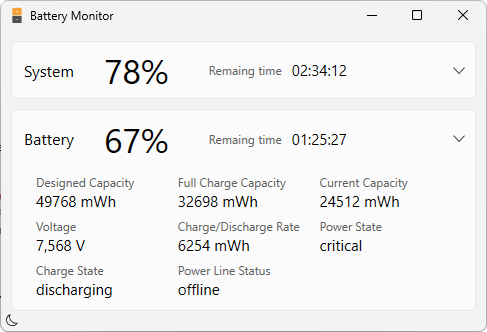
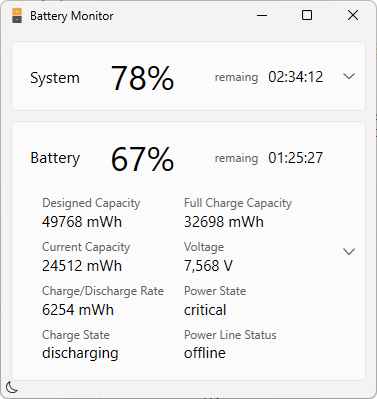
- modified Expander style - more space in layout

diff --git a/Styles.xaml b/Styles.xaml
@@ -250,11 +250,17 @@
                      TargetType="{x:Type ToggleButton}">
         <Border x:Name="Border"
                 Background="Transparent">
-            <Grid Margin="0,25,10,0"
-                  HorizontalAlignment="Right"
+            <Grid Margin="10"
+                  HorizontalAlignment="Stretch"
                   VerticalAlignment="Top">
+                <Grid.ColumnDefinitions>
+                    <ColumnDefinition />
+                    <ColumnDefinition Width="12" />
+                </Grid.ColumnDefinitions>
                 <Path x:Name="CollapsedArrow"
+                      Grid.Column="1"
                       Width="12"
+                      Margin="0,0,0,0"
                       HorizontalAlignment="Center"
                       VerticalAlignment="Center"
                       Data="M 0 0 L 8 8 L 16 0"
@@ -262,7 +268,9 @@
                       Stroke="{StaticResource Group.ExpanderButtonBrush}"
                       StrokeThickness="1" />
                 <Path x:Name="ExpandededArrow"
+                      Grid.Column="1"
                       Width="12"
+                      Margin="0,0,0,0"
                       HorizontalAlignment="Center"
                       VerticalAlignment="Center"
                       Data="M 0 8 L 8 0 L 16 8"
@@ -270,6 +278,7 @@
                       Stroke="{StaticResource Group.ExpanderButtonBrush}"
                       StrokeThickness="1"
                       Visibility="Collapsed" />
+                <ContentPresenter Grid.Column="0" />
             </Grid>
             <VisualStateManager.VisualStateGroups>
                 <VisualStateGroup x:Name="CommonStates">
@@ -308,8 +317,7 @@
                     <Grid>
                         <Grid.RowDefinitions>
                             <RowDefinition Height="Auto" />
-                            <RowDefinition x:Name="ContentRow"
-                                           Height="0" />
+                            <RowDefinition Height="Auto" />
                         </Grid.RowDefinitions>
                         <Border x:Name="Border"
                                 Grid.Row="0"
@@ -318,10 +326,8 @@
                                 BorderThickness="1"
                                 CornerRadius="5">
                             <Grid>
-                                <ContentPresenter Margin="4"
-                                                  ContentSource="Header"
-                                                  RecognizesAccessKey="True" />
-                                <ToggleButton FocusVisualStyle="{x:Null}"
+                                <ToggleButton Content="{TemplateBinding Header}"
+                                              FocusVisualStyle="{x:Null}"
                                               IsChecked="{Binding IsExpanded,
                                                                   Mode=TwoWay,
                                                                   RelativeSource={RelativeSource TemplatedParent}}"
@@ -329,36 +335,26 @@
                                               Template="{StaticResource ExpanderToggleButton}" />
                             </Grid>
                         </Border>
-                        <Border x:Name="Content"
+                        <Border x:Name="ExpandSite"
                                 Grid.Row="1"
                                 Background="{StaticResource Group.BackgroundBrush}"
                                 BorderBrush="{StaticResource Group.BorderBrush}"
                                 BorderThickness="1,0,1,1"
-                                CornerRadius="0,0,5,5">
+                                CornerRadius="0,0,5,5"
+                                Visibility="Collapsed">
                             <ContentPresenter Margin="4" />
                         </Border>
                         <VisualStateManager.VisualStateGroups>
                             <VisualStateGroup x:Name="CommonStates">
                                 <VisualState x:Name="Normal" />
                                 <VisualState x:Name="MouseOver" />
-                                <VisualState x:Name="Disabled">
-                                    <Storyboard>
-                                        <ColorAnimation Storyboard.TargetName="Border"
-                                                        Storyboard.TargetProperty="(Panel.Background).(GradientBrush.GradientStops)[1].(GradientStop.Color)"
-                                                        To="Gray"
-                                                        Duration="0" />
-                                        <ColorAnimation Storyboard.TargetName="Border"
-                                                        Storyboard.TargetProperty="(Border.BorderBrush).(GradientBrush.GradientStops)[1].(GradientStop.Color)"
-                                                        To="Gray"
-                                                        Duration="0" />
-                                    </Storyboard>
-                                </VisualState>
+                                <VisualState x:Name="Disabled" />
                             </VisualStateGroup>
                         </VisualStateManager.VisualStateGroups>
                     </Grid>
                     <ControlTemplate.Triggers>
                         <Trigger Property="IsExpanded" Value="True">
-                            <Setter TargetName="ContentRow" Property="Height" Value="{Binding DesiredHeight, ElementName=Content}" />
+                            <Setter TargetName="ExpandSite" Property="Visibility" Value="Visible" />
                             <Setter TargetName="Border" Property="CornerRadius" Value="5,5,0,0" />
                         </Trigger>
                     </ControlTemplate.Triggers>
@@ -593,7 +589,7 @@
                         <Grid.ColumnDefinitions>
                             <ColumnDefinition Width="Auto"
                                               SharedSizeGroup="ColumnGroupLabel" />
-                            <ColumnDefinition Width="10"/>
+                            <ColumnDefinition Width="10" />
                         </Grid.ColumnDefinitions>
                         <Grid.RowDefinitions>
                             <RowDefinition />
@@ -634,37 +630,23 @@
         <Setter Property="Template">
             <Setter.Value>
                 <ControlTemplate TargetType="{x:Type s:ValueControl}">
-                    <Grid Width="Auto"
-                          HorizontalAlignment="Left"
-                          VerticalAlignment="Top">
-                        <Grid.ColumnDefinitions>
-                            <ColumnDefinition Width="Auto" />
-                        </Grid.ColumnDefinitions>
-                        <Grid.RowDefinitions>
-                            <RowDefinition />
-                        </Grid.RowDefinitions>
-                        <StackPanel Margin="0,0,0,0"
-                                    Orientation="Horizontal">
-                            <Label x:Name="NoneEmptyValue"
-                                   Margin="0,0,0,0"
-                                   HorizontalAlignment="Left"
-                                   VerticalAlignment="Top"
-                                   Content="{TemplateBinding Value}"
-                                   FontSize="34" />
-                            <Label x:Name="Unit"
-                                   Grid.Row="0"
-                                   Grid.Column="1"
-                                   HorizontalAlignment="Left"
-                                   VerticalAlignment="Top"
-                                   Content="%"
-                                   FontSize="34" />
-                            <Label x:Name="Empty"
-                                   Margin="0,-2,0,0"
-                                   Content="--"
-                                   FontSize="22"
-                                   Visibility="Collapsed" />
-                        </StackPanel>
-                    </Grid>
+                    <StackPanel Orientation="Horizontal">
+                        <Label x:Name="NoneEmptyValue"
+                               HorizontalAlignment="Left"
+                               VerticalAlignment="Center"
+                               Content="{TemplateBinding Value}"
+                               FontSize="34" />
+                        <Label x:Name="Unit"
+                               HorizontalAlignment="Left"
+                               VerticalAlignment="Center"
+                               Content="%"
+                               FontSize="34" />
+                        <Label x:Name="Empty"
+                               Margin="0,-2,0,0"
+                               Content="--"
+                               FontSize="22"
+                               Visibility="Collapsed" />
+                    </StackPanel>
                     <ControlTemplate.Triggers>
                         <Trigger Property="Value" Value="">
                             <Setter TargetName="NoneEmptyValue" Property="Visibility" Value="{x:Static Visibility.Collapsed}" />
@@ -683,29 +665,18 @@
         <Setter Property="Template">
             <Setter.Value>
                 <ControlTemplate TargetType="{x:Type s:LabelValuePair}">
-                    <Grid Width="Auto"
-                          HorizontalAlignment="Left"
-                          VerticalAlignment="Top">
-                        <Grid.ColumnDefinitions>
-                            <ColumnDefinition Width="Auto" />
-                            <ColumnDefinition Width="Auto" />
-                        </Grid.ColumnDefinitions>
-                        <Grid.RowDefinitions>
-                            <RowDefinition />
-                        </Grid.RowDefinitions>
-                            <Label Grid.Column="0"
-                                   Content="{TemplateBinding Label}"
-                                   Style="{DynamicResource DescriptionStyle}" />
-                            <Label x:Name="NoneEmptyValue"
-                                   Grid.Column="1"
-                                   Content="{TemplateBinding Value}"
-                                   Style="{DynamicResource ValueStyle}" />
-                            <Label x:Name="Empty"
-                                   Grid.Column="1"
-                                   Content="--"
-                                   Style="{DynamicResource ValueStyle}"
-                                   Visibility="Collapsed" />
-                    </Grid>
+                    <StackPanel Orientation="Horizontal">
+                        <Label Grid.Column="0"
+                               Content="{TemplateBinding Label}"
+                               Style="{DynamicResource DescriptionStyle}" />
+                        <Label x:Name="NoneEmptyValue"
+                               Content="{TemplateBinding Value}"
+                               Style="{DynamicResource ValueStyle}" />
+                        <Label x:Name="Empty"
+                               Content="--"
+                               Style="{DynamicResource ValueStyle}"
+                               Visibility="Collapsed" />
+                    </StackPanel>
                     <ControlTemplate.Triggers>
                         <Trigger Property="Value" Value="">
                             <Setter TargetName="NoneEmptyValue" Property="Visibility" Value="{x:Static Visibility.Collapsed}" />

diff --git a/MainWindow.xaml b/MainWindow.xaml
@@ -7,8 +7,8 @@
         xmlns:s="clr-namespace:BatteryMonitor"
         x:Name="Window"
         Title="{x:Static p:Resources.WindowTitle}"
-        Width="477"
-        Height="340"
+        Width="500"
+        Height="360"
         MinWidth="250"
         MinHeight="251"
         Background="{DynamicResource WindowBackgroundBrush}"
@@ -30,7 +30,7 @@
                 <Expander Padding="5">
                     <Expander.Header>
                         <Grid>
-                            <WrapPanel Margin="0,0,20,0">
+                            <WrapPanel Margin="0,0,10,0">
                                 <Grid Width="Auto"
                                       HorizontalAlignment="Left"
                                       VerticalAlignment="Center">
@@ -62,7 +62,7 @@
                             </WrapPanel>
                         </Grid>
                     </Expander.Header>
-                    <WrapPanel Margin="20,2,0,0" HorizontalAlignment="Stretch">
+                    <WrapPanel Margin="26,6,18,0" HorizontalAlignment="Stretch">
                         <s:LabelValuePair x:Name="SystemPowerState"
                                           Label="{x:Static p:Resources.LabelPowerState}" />
                         <s:LabelValuePair x:Name="SystemChargeState"
@@ -76,7 +76,7 @@
                     <Expander.Header>
                         <Grid>
                             <StackPanel Margin="0,0,0,0">
-                                <WrapPanel Margin="0,0,20,0">
+                                <WrapPanel Margin="0,0,10,0">
                                     <Grid Width="Auto"
                                           HorizontalAlignment="Left"
                                           VerticalAlignment="Center">
@@ -106,7 +106,7 @@
                                                       Style="{StaticResource RemainingTimeValueStyle}" />
                                 </WrapPanel>
 
-                                <WrapPanel Margin="20,11,0,0" HorizontalAlignment="Stretch">
+                                <WrapPanel Margin="20,13,0,0" HorizontalAlignment="Stretch">
                                     <s:LabelValuePair x:Name="DesignedCapacity"
                                                       Label="{x:Static p:Resources.LabelDesignCapacity}"
                                                       Unit=" mWh" />
@@ -132,7 +132,7 @@
                             </StackPanel>
                         </Grid>
                     </Expander.Header>
-                    <WrapPanel Margin="20,0,0,0" HorizontalAlignment="Stretch">
+                    <WrapPanel Margin="26,6,18,0" HorizontalAlignment="Stretch">
                         <s:LabelValuePair x:Name="DeviceName"
                                           Label="{x:Static p:Resources.LabelBatteryName}" />
                         <s:LabelValuePair x:Name="Manufacture"

diff --git a/LightModeColors.xaml b/LightModeColors.xaml
@@ -20,11 +20,11 @@
 
     <Color x:Key="ScrollbarThumbColor">#FF8a8a8a</Color>
 
-    <!-- Desciption -->
+    <!--  Desciption  -->
     <SolidColorBrush x:Key="DescriptionBrush"
                      Color="{StaticResource DescriptionColor}" />
 
-    <!-- Scrollbar -->
+    <!--  Scrollbar  -->
     <SolidColorBrush x:Key="ScrollbarThumbBrush"
                      Color="{StaticResource ScrollbarThumbColor}" />
 
@@ -44,7 +44,7 @@
     <SolidColorBrush x:Key="ControlBackgroundBrush"
                      Color="{StaticResource ControlBackgroundColor}" />
 
-    <!-- Group -->
+    <!--  Group  -->
     <SolidColorBrush x:Key="Group.BackgroundBrush"
                      Color="{StaticResource Group.BackgroundColor}" />
     <SolidColorBrush x:Key="Group.BorderBrush"

diff --git a/Properties/Resources.Designer.cs b/Properties/Resources.Designer.cs
@@ -367,7 +367,7 @@ namespace BatteryMonitor.Properties {
         }
         
         /// <summary>
-        ///   Looks up a localized string similar to Remaing time.
+        ///   Looks up a localized string similar to remaing.
         /// </summary>
         public static string LabelRemainingTime {
             get {
